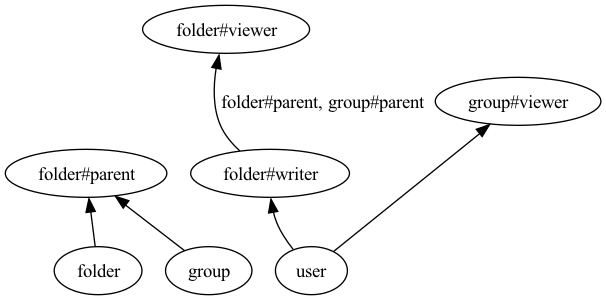
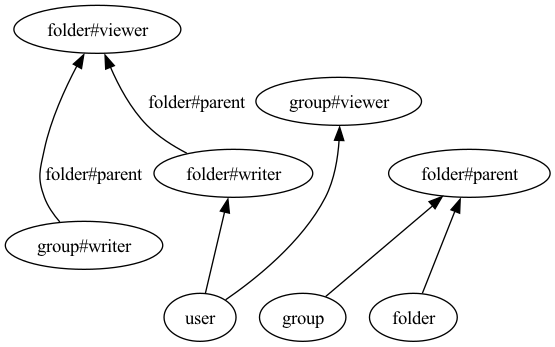
fix: update handling of ttu

diff --git a/main.go b/main.go
@@ -8,7 +8,6 @@ import (
 	"log"
 	"os"
 	"sort"
-	"strings"
 
 	parser "github.com/craigpastro/openfga-dsl-parser/v2"
 	"github.com/dominikbraun/graph"
@@ -153,23 +152,18 @@ func rewriteHandler(typesys *typesystem.TypeSystem, g graph.Graph[string, string
 			return nil
 		case *openfgav1.Userset_TupleToUserset:
 			tupleset := rw.TupleToUserset.GetTupleset().GetRelation()
-			rewrittenRelation := rw.TupleToUserset.ComputedUserset.GetRelation()
+			rewrittenRelation := rw.TupleToUserset.GetComputedUserset().GetRelation()
 
 			tuplesetRel, err := typesys.GetRelation(typeName, tupleset)
 			if err != nil {
 				return err
 			}
 
-			var edgeLabels []string
 			directlyRelatedTypes := tuplesetRel.GetTypeInfo().GetDirectlyRelatedUserTypes()
 			for _, relatedType := range directlyRelatedTypes {
-				assignableType := relatedType.GetType()
-				edgeLabels = append(edgeLabels, fmt.Sprintf("%s#%s", assignableType, tupleset))
-			}
-
-			if len(edgeLabels) > 0 {
-				rewrittenNodeName := fmt.Sprintf("%s#%s", typeName, rewrittenRelation)
-				edgeLabelAttribute := graph.EdgeAttribute("label", strings.Join(edgeLabels, ", "))
+				rewrittenNodeName := fmt.Sprintf("%s#%s", relatedType.GetType(), rewrittenRelation)
+				conditionedOnNodeName := fmt.Sprintf("%s#%s", typeName, tuplesetRel.GetName())
+				edgeLabelAttribute := graph.EdgeAttribute("label", conditionedOnNodeName)
 
 				err := addEdge(g, rewrittenNodeName, relationNodeName, edgeLabelAttribute)
 				if err != nil {
